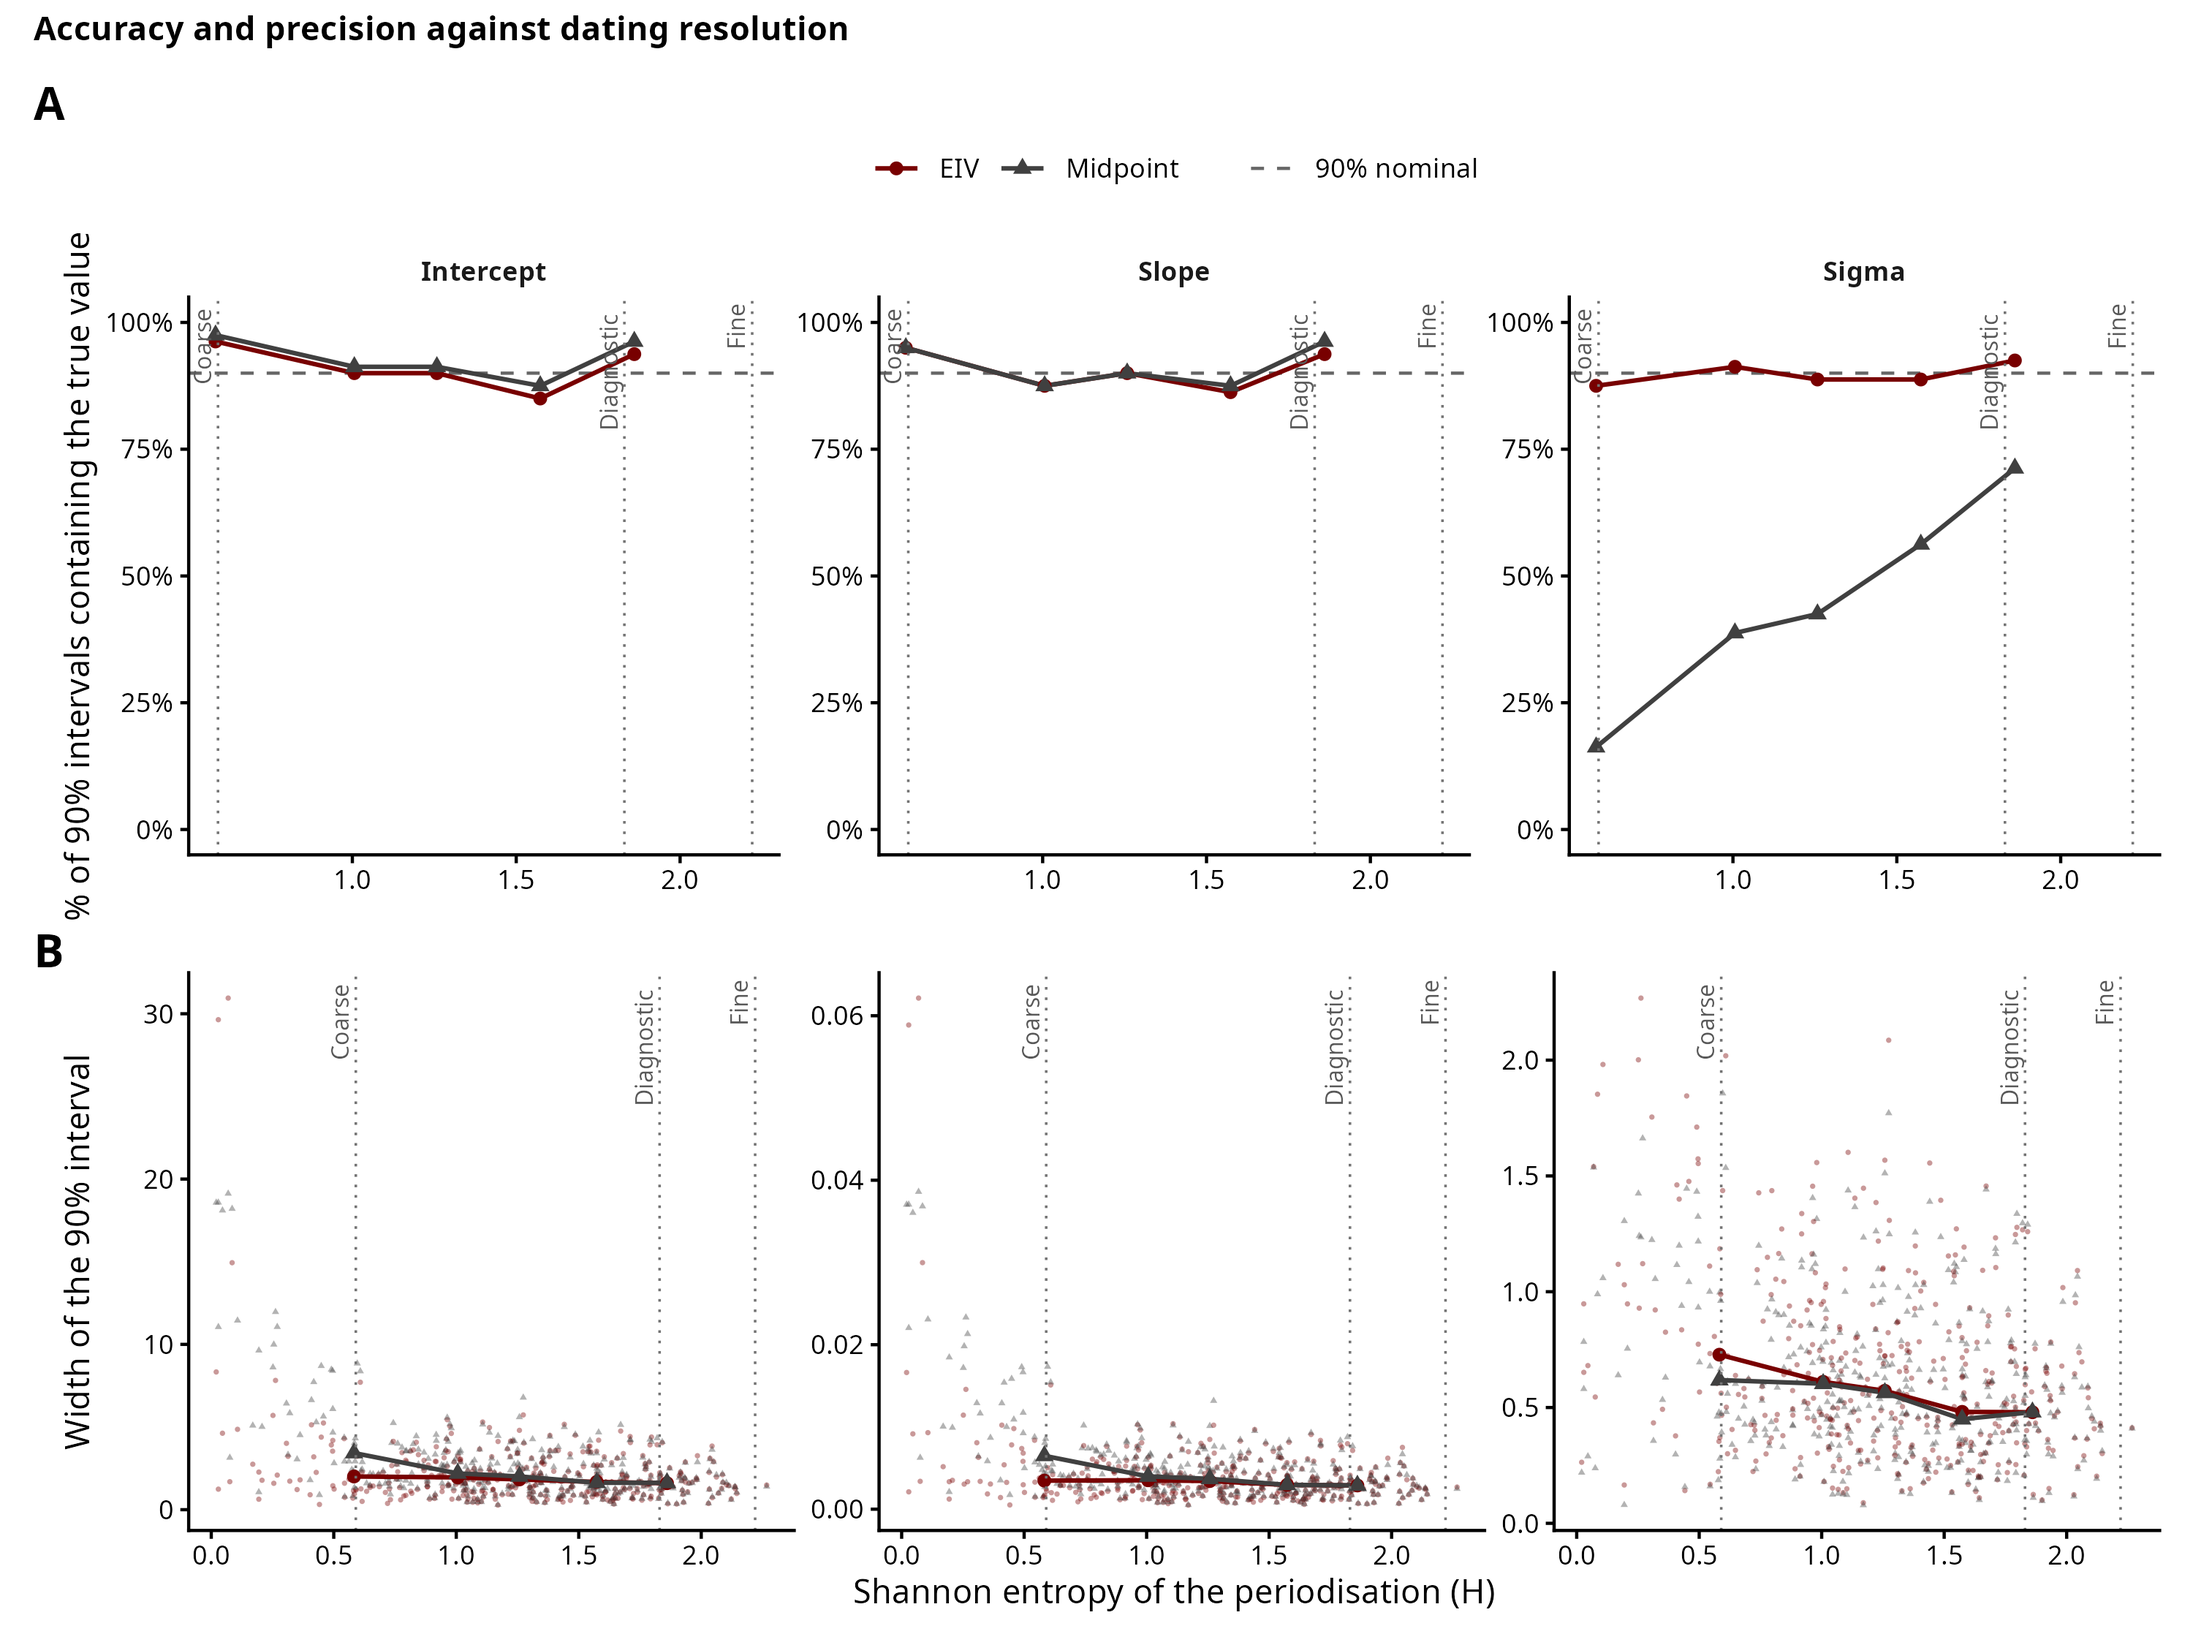
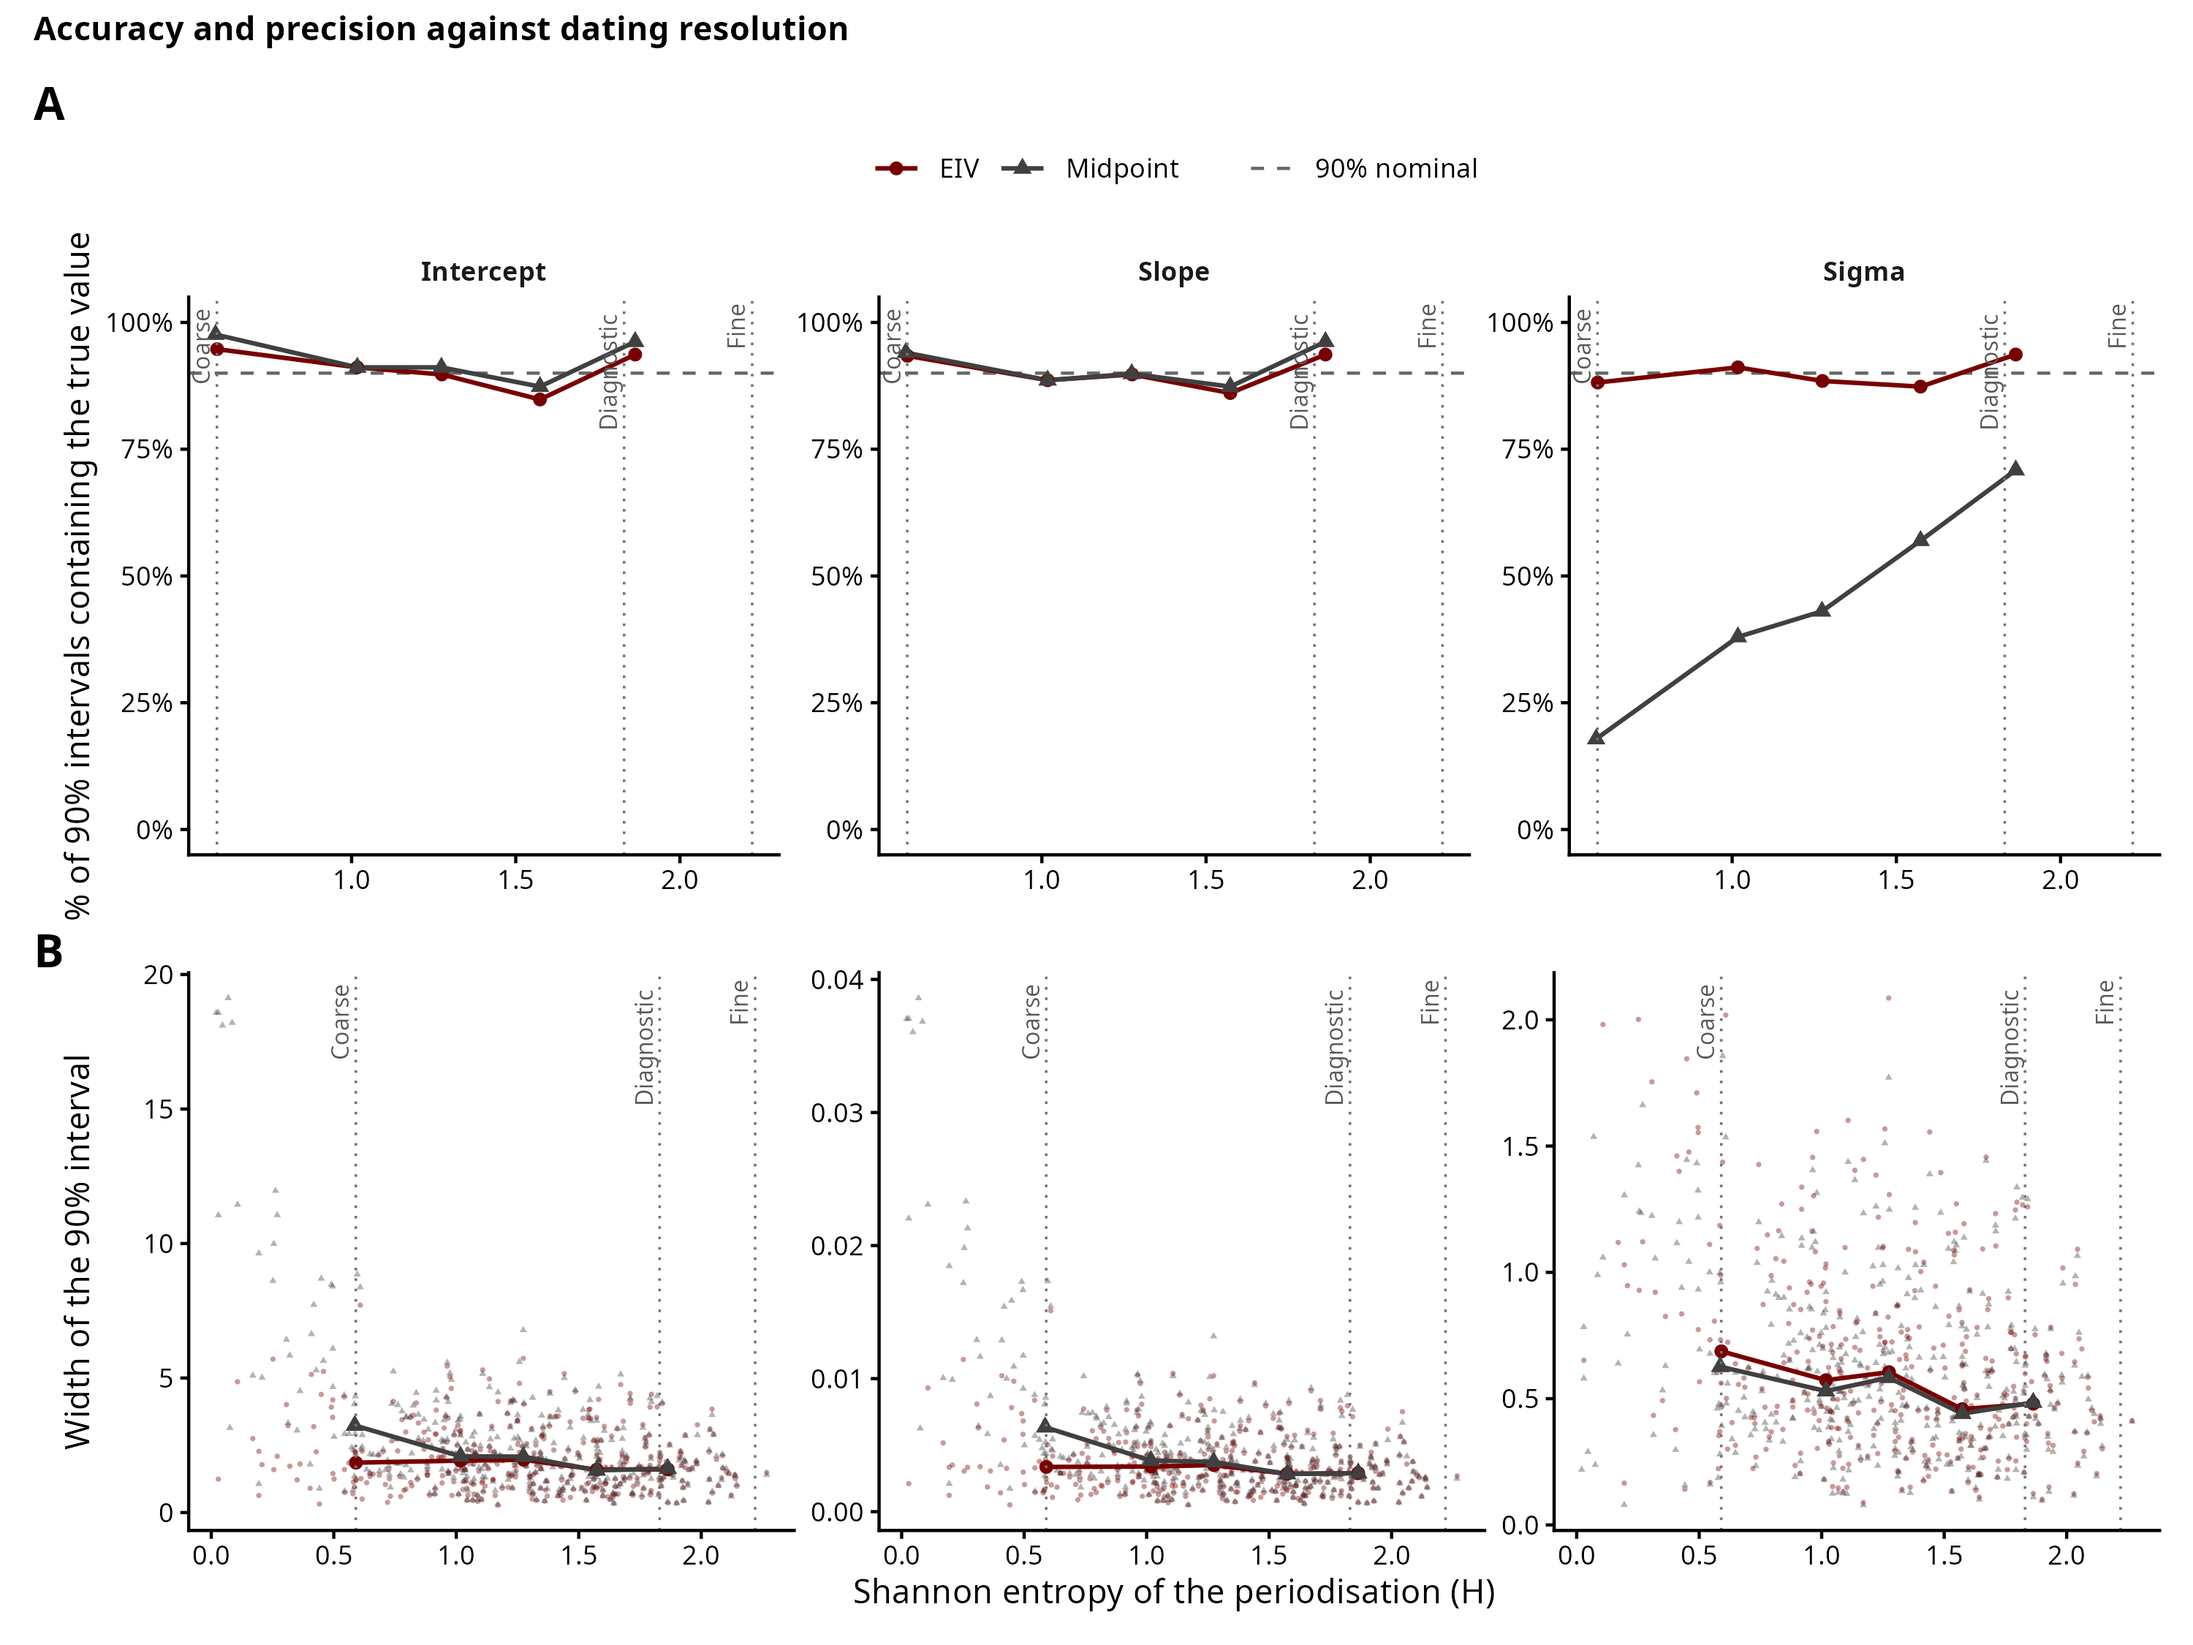
Changes to Sim_Linear comments, README

diff --git a/Simulations/Sim_Linear/README.md b/Simulations/Sim_Linear/README.md
@@ -153,11 +153,11 @@ the residuals. As phases coarsen (lower H), the midpoint gets worse.
 
 | Parameter | Interval | EIV | Midpoint |
 |---|---|---|---|
-| Intercept | 50% | 51.0% | 50.2% |
-| Intercept | 90% | 91.0% | 92.8% |
-| Slope | 50% | 46.2% | 48.0% |
-| Slope | 90% | 90.5% | 91.2% |
-| Sigma | 50% | 47.8% | 21.8% |
+| Intercept | 50% | 50.9% | 50.2% |
+| Intercept | 90% | 90.8% | 92.8% |
+| Slope | 50% | 46.3% | 48.0% |
+| Slope | 90% | 90.3% | 91.2% |
+| Sigma | 50% | 47.6% | 21.8% |
 | Sigma | 90% | **89.8%** | **45.0%** |
 
 Under uniform within-phase deposition, EIV and midpoint agree on the trend, but EIV has a lower sigma. 
@@ -187,7 +187,7 @@ as sample size increases, independent of the H-driven story above.
 ## Scenario study
 
 The recovery study uses fully random datasets, always under uniform deposition, and shows the
-general relationship. The script in `05_scenarios.R` is complementary. For the paper it might be better to show some realistic case studies, also including a skewed deposition and a biased between-phase sampling.
+general relationship. The script in `05_scenarios.R` is complementary, to include some realistic case studies and test conditions such as a skewed deposition and a biased between-phase sampling.
 
 There are three separate things that we can change about the dating although they do not seem to bias the trend (maybe the third a bit):
 
